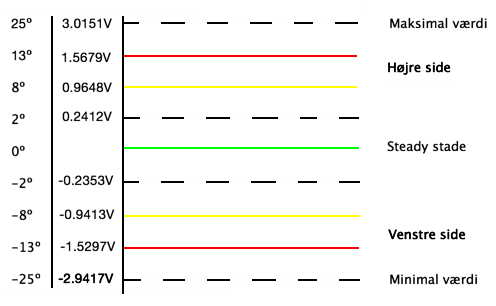
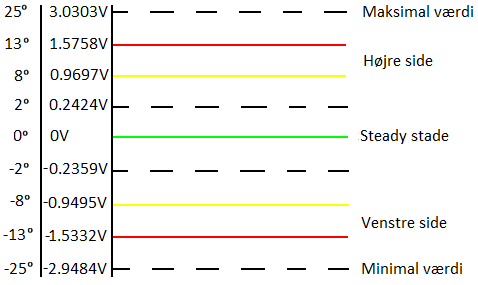
Blandet rettelser

diff --git a/rapportAfsnit/eProblemloesning/Design/Komparator_Feedback/Komparator.tex b/rapportAfsnit/eProblemloesning/Design/Komparator_Feedback/Komparator.tex
@@ -1,10 +1,10 @@
 % !TeX spellcheck = da_DK
-\subsection{Komparator}
+\subsection{Feedback}
 \subsubsection{Teori og design}
-Som nævnt i afsnit \ref{Komparatorafsnit} på side \pageref{Komparatorafsnit} anvendes en komparator til at sammenligne to inputspændinger. Der vil blive anvendt flere komparatorer og i dette tilfælde vil komparatorernes output blive tilkoblet en LED-diode, en modstand, den positive spændingsforsyning ($+V_{cc}$) og/eller en vibrator. I komparatorernes ikke-inverterende terminaler skal outputtet fra forrige blok tilsluttes. Inputtet til de inverterende terminaler skal fungere som referencespænding, hvilket anvendes til at forsyne med de beregnede tærskelværdier. Komparatorerne kan derfor have to forskellige outputs afhængig af inputspændingen. Hvis inputsignalet ligger udenfor de beregnede tærskelværdier, vil outputtet være $0V$, og dioderne og vibratoren vil ikke aktiveres. Er inputtet indenfor de beregnede tærskelværdier, vil outputtet svare til jord, da strømmen fra $+V_{cc}$ vil løbe igennem komparatorerne og derefter til jord. Derved opnås et spændingsfald over den positive (anode) og negative (katode) pol for LED-dioden og vibratoren på en værdi, der ligger over det minimale spændingsfald, der kræves for en aktivering. LED-dioderne og vibratorerne vil derved blive aktiveret og give feedback til patienten. \\
+Som nævnt i afsnit \ref{Komparatorafsnit} på side \pageref{Komparatorafsnit} anvendes en komparator til at sammenligne to inputspændinger. Der vil blive anvendt flere komparatorer og i dette tilfælde vil komparatorernes output blive tilkoblet en LED-diode, en modstand, den positive spændingsforsyning ($+V_{cc}$) og muligvis en vibrator. I komparatorernes ikke-inverterende terminaler skal outputtet fra forrige blok tilsluttes. Inputtet til de inverterende terminaler skal fungere som referencespænding, hvilket anvendes til at forsyne med de beregnede tærskelværdier. Komparatorerne kan derfor have to forskellige outputs afhængig af inputspændingen. Hvis inputsignalet ligger udenfor de beregnede tærskelværdier, vil outputtet være $0V$, og dioderne og vibratoren vil ikke aktiveres. Er inputtet indenfor de beregnede tærskelværdier, vil outputtet svare til jord, da strømmen fra $+V_{cc}$ vil løbe igennem komparatorerne og derefter til jord. Derved opnås et spændingsfald over den positive (anode) og negative (katode) pol for LED-dioden og vibratoren på en værdi, der ligger over det minimale spændingsfald, som der kræves for en aktivering. LED-dioderne og vibratorerne vil derved blive aktiveret og fungere som feedback til patienten. \\
 
 \noindent\textbf{Visuel komparator kredsløb} \\
-Til den visuelle del af komparatorkredsløbet anvendes LED-dioder. LED-diodernes katode tilkobles komparatorens output, imens anoden tilkobles $+V_{cc}$. Jævnfør kravspecifikationerne i afsnit \ref{KomparatorAfs} på side \pageref{KomparatorAfs} er der valgt fem forskellige stadier for aktivering af LED-dioderne. For denne aktivering vil der blive anvendt otte komparatorer, da det første stadie, indeholdende den grønne LED-diode, både har en positiv og negativ tærskelværdi og derfor kræver to komparatorer. Tærskelværdierne kan både implementeres som to spændingstræer eller som otte spændingsdelere og der er fordele og ulemper ved begge metoder. Der anvendes her otte spændingsdelere, hvor fire indgår i to vindues-komparatorer og fire almindelige komparatorer. Dette design vælges til fordel for to spændingstræer, da modstandene i et spændingstræ påvirker hinanden, hvilket kan ændre tærskelværdierne, hvis én af modstandene ikke fungerer ideelt. For at modvirke dette, anvendes en spændingsdeler for hver tærskelværdi, der fremgår af \figref{fig:komparator_visuel}. Konfigurationen indeholder en spændingsreference $+V_{ref}$ på $2.5$V og fire modstande (R$13$-R$17$) mellem LED-dioderne og $+V_{cc}$ for at beskytte LED-dioderne mod for høj strømstyrke og at batteriet ikke drænes. Der udarbejdes en vindues-konfigurationen, hvor LED-dioden D$3$) er placeret mellem ground-terminalen på den ene komparatorer og output-terminalen på en anden komparator, som kan ses på \figref{fig:komparator_visuel}, hvor komparatorerne er U$3$ og U$4$. 
+Til den visuelle del af komparatorkredsløbet anvendes LED-dioder. LED-diodernes katode tilkobles komparatorens output, imens anoden tilkobles $+V_{cc}$. Jævnfør kravspecifikationerne i afsnit \ref{KomparatorAfs} på side \pageref{KomparatorAfs} er der valgt fem forskellige stadier for aktivering af LED-dioderne. For denne aktivering vil der blive anvendt otte komparatorer, da det første stadie, indeholdende den grønne LED-diode, både har en positiv og negativ tærskelværdi og derfor kræver to komparatorer. Tærskelværdierne kan både implementeres som to spændingstræer eller som otte spændingsdelere, hvoraf der er fordele og ulemper ved begge metoder. I dette tilfælde anvendes otte spændingsdelere, hvor to indgår i en vindueskomparatorkonfiguration for den grønne diode, og de seks andre fungerer som almindelige komparatorer, der aktiveres over en bestemt tærskelværdi. Dette design vælges til fordel for to spændingstræer, da modstandene i et spændingstræ påvirker hinanden, hvilket kan ændre tærskelværdierne, hvis én af modstandene ikke fungerer reelt. For at modvirke dette, anvendes en spændingsdeler for hver tærskelværdi, der fremgår af \figref{fig:komparator_visuel}. {\color{red}Teksten her efter passer ikke med billedet - ret til, når simuleringen er færdig. Det samme gælder figurteksten.} Figurationen indeholder en spændingsreference $+V_{ref}$ på $2.5$V og fire modstande (R$13$-R$17$) mellem LED-dioderne og $+V_{cc}$ for at beskytte LED-dioderne mod for høj strømstyrke og at batteriet ikke drænes. Der udarbejdes en vindues-konfigurationen, hvor LED-dioden D$3$) er placeret mellem ground-terminalen på den ene komparatorer og output-terminalen på en anden komparator, som kan ses på \figref{fig:komparator_visuel}, hvor komparatorerne er U$3$ og U$4$. 
 \begin{figure}[H]
 	\centering
 	\includegraphics[scale=0.7]{figures/cProblemloesning/komparator_visuel1.PNG}
@@ -15,7 +15,7 @@ Til den visuelle del af komparatorkredsløbet anvendes LED-dioder. LED-diodernes
 %%%%%%%%%%%%%%%%%%%%%%%%%%%%%%%%%%%%%%%%%%%%%%%%%%%%%%%%%%%%%%%
 
 \noindent\textbf{Beregning af tærskelværdier og tilhørende R$1$-R$12$ modstande for aktivering af LED-dioder} \\
-Inputsignalet fra forrige blok, tilpasningsblokken, ligger mellem -$2.9417$V og $3.0151$V jævnfør afsnit \ref{KomparatorAfs} på side\pageref{KomparatorAfs}. Jævnfør systemets funktionelle krav afsnit \ref{FunkKrav} på side \pageref{FunkKrav} ønskes det, at de enkelte LED-dioder skal lyse ved bestemte kropshældninger, dvs. ved en bestemt tærskelværdi. 
+Inputsignalet fra forrige blok, tilpasningsblokken, ligger mellem -$2.9484$V og $3.0305$V jævnfør afsnit \ref{Forstaerker_faktor3_afs} på side\pageref{Forstaerker_faktor3_afs}. Jævnfør systemets funktionelle krav afsnit \ref{FunkKrav} på side \pageref{FunkKrav} ønskes det, at de enkelte LED-dioder skal lyse ved bestemte kropshældninger, dvs. ved en bestemt tærskelværdi. 
 Tærskelværdierne er udregnet til at være:
 \begin{figure}[H]
 	\centering
@@ -24,15 +24,13 @@ Tærskelværdierne er udregnet til at være:
 	\label{fig:taerskelvaerdier}
 \end{figure}
 
-Der vælges en  spændingsreference, som består af en regulator så den kan levere $2.5$V til komparatorkredsløbet jævnført \ref{Spaendingsref} på side \pageref{Spaendingsref}. Spændingsreferencen indgår som del af en spændingsdeler og benyttes for at holde en fast referencespænding, da spændingen ved anvendelse af et batteri vil falde som funktion af tid. For at muliggøre anvendelsen af spændingsforsyningen på $2.5$V til negative tærskelværdier benyttes en inverterende forstærker med et gain på $1$, der fremgår af figur \figref{fig:komparator_visuel}. Ved denne konfiguration vendes signalet uden at blive forstærket og kan på denne måde benyttes som referencespænding til negative inputspændinger.  
-Når referencespændingen er kendt kan modstandene i spændingsdeleren bestemmes. Da kredsløbet trækker strøm har modstandene (R$13$-R$17$) til formål at sikre, at spændingsforsyningen ikke drænes. Hvis modstanden er høj, vil strømmen til kredsløbet være lav, og batterierne i spændingsreferencen vil derved holde længere, men hvis modstanden er høj kan det påvirke LED-diodernes lysstyrke.
+Der vælges en  spændingsreference, som består af en regulator så den kan levere $2.5$V til komparatorkredsløbet jævnført \ref{subsec:Spaendingsref_Komparator} på side \pageref{subsec:Spaendingsref_Komparator}. Spændingsreferencen indgår som del af en spændingsdeler og benyttes for at holde en fast referencespænding, da spændingen ved anvendelse af et batteri vil falde som funktion af tid. For at muliggøre anvendelsen af spændingsforsyningen på $2.5$V til negative tærskelværdier benyttes en inverterende forstærker med et gain på $1$, der fremgår af figur \figref{fig:komparator_visuel}. Ved denne konfiguration vendes signalet uden at blive forstærket og kan på denne måde benyttes som referencespænding til negative inputspændinger. Når referencespændingen er kendt, kan modstandene i spændingsdeleren bestemmes. Da kredsløbet trækker strøm, har modstandene (R$13$-R$17$) til formål at sikre, at spændingsforsyningen ikke drænes. Hvis modstanden er høj, vil strømmen til kredsløbet være lav, og batterierne i spændingsreferencen vil derved holde længere, men hvis modstanden er høj kan det do også påvirke LED-diodernes lysstyrke.
 
-Der anvendes seks spændingsdelere, hvor to indgår som vindues-komparatorer og de resterende som almindelige komparatorer, hvilket fremgår af  \figref{fig:komparator_visuel}.
-For at opstille spændingsdelerne skal R$1$-R$12$ bestemmes så LED-dioderne lyser ved de ønskede tærskelværdier. For at modstandene kan bestemmes defineres R$1$ til en bestemt værdi, der her fastsættes til at være $10$K$\Omega$. Den samme værdi er gældende for R$2$-R$6$, eftersom der anvendes en spændingsdeler for hver tærskelværdi. Herefter kan R$7$-R$12$ udregnes vha. den generelle formel for en spændingsdeler jævnført \eqref{Spaendingsdeler}. Hvor følgende er kendt:
+For at opstille spændingsdelerne skal R$1$-R$12$ bestemmes, så LED-dioderne lyser ved de ønskede tærskelværdier. For at modstandene kan bestemmes defineres R$1$ til en bestemt værdi, der her fastsættes til at være $10$K$\Omega$. Den samme værdi er gældende for R$2$-R$6$, eftersom der anvendes en spændingsdeler for hver tærskelværdi. Herefter kan R$7$-R$12$ udregnes vha. den generelle formel for en spændingsdeler jævnført \eqref{eq:Spaendingsdeler}. Hvor følgende er kendt:
 \begin{itemize}
-\item $V_out$ = den ønskede tærskelværdi
-\item $V_in$ = spændingsreferencen
-\item R$1$-R$6$ = $10$K$\Omega$
+\item $V_out$ = Den ønskede tærskelværdi.
+\item $V_in$ = Spændingsreferencen.
+\item R$1$-R$6$ = $10$K$\Omega$.
 \end{itemize}
 
 Dette medfører at R$7$-R$12$ giver følgende resultater:\\
@@ -46,7 +44,7 @@ R$12$ = $15765\Omega$ \\
 %%%%%%%%%%%%%%%%%%%%%%%%%%%%%%%%%%%%%%%%%%%%%%%%%%%%%%%%
 
 \noindent\textbf{Beregning af R$13$-R$17$ modstande for aktivering af LED-dioder} \\
-Jænvfør kravspecifikationerne i afsnit \ref{KomparatorAfs} på side \pageref{KomparatorAfs} for komparatoren skal forsyningsspændingen være $5.5$V. De anvendte LED-dioder i systemet er: en grønne L-$53$LG $5$mm (D$3$), to røde L-$53$LI $5$mm (D$1$ og D$5$) og to gule L-$53$LY $5$mm (D$2$ og D$4$). Disse LED-dioder kræver en minimum spænding på $2$mA for at lyse, men omkring $20$mA for tydeligt lys, hvilket der er ønsket jævnført \ref{visuel_feedback_krav} på side \pageref{visuel_feedback_krav}.  Spændingsfaldet over LED-dioderne ligger maksimalt i intervallet $2.0$V til $2.2$ V (rød: $2.0$, gul: $2.1$ og grøn: $2.2$), men typisk mellem $1.7$V-$1.9$V. LED-dioderne skal derudover forsynes med $2$mA for at fungere, men kan forsynes med op til \fxnote{Tjek og 150mA er rigtigt}$150$mA, før de brændes af. LED-dioderne forsynes af en $5.5$V spændingsforsyning og tilkobles, som sagt, tilhørende modstande for bla. at undgå at LED-dioderne brænder af. Spændingsfaldet over dioderne samt den spænding LED-dioderne som minimum skal bruge for at lyse er kendte værdier, dvs. modstandene R$12$-R$17$ kan derfor findes vha. Ohms lov. Nedenstående udregning giver en værdi af modstandene, hvis spændingsforsyningen giver $5.5$V til kredsløbet og hvor der tages udgangspunkt i den minimale strøm for LED-dioderne:
+Jænvfør kravspecifikationerne i afsnit \ref{KomparatorAfs} på side \pageref{KomparatorAfs} for komparatoren skal forsyningsspændingen være $5.5$V. De anvendte LED-dioder i systemet er: en grønne L-$53$LG $5$mm (D$3$), to røde L-$53$LI $5$mm (D$1$ og D$5$) og to gule L-$53$LY $5$mm (D$2$ og D$4$). Disse LED-dioder kræver en minimum spænding på $2$mA for at lyse, men det vurderes, at der skal benyttes ca. $20$mA for tydeligt lys.  Spændingsfaldet over LED-dioderne ligger maksimalt i intervallet $2.0$V til $2.2$ V (rød: $2.0$, gul: $2.1$ og grøn: $2.2$), men typisk mellem $1.7$V-$1.9$V. LED-dioderne skal derudover forsynes med $2$mA for at fungere, men kan forsynes med op til \fxnote{Tjek og 150mA er rigtigt}$150$mA, før de brændes af. LED-dioderne forsynes af en $5.5$V spændingsforsyning og tilkobles, som sagt, tilhørende modstande for bla. at undgå at LED-dioderne brænder af. Spændingsfaldet over dioderne samt den spænding LED-dioderne som minimum skal bruge for at lyse er kendte værdier, dvs. modstandene R$12$-R$17$ kan derfor findes vha. Ohms lov. Nedenstående udregning giver en værdi af modstandene, hvis spændingsforsyningen giver $5.5$V til kredsløbet og hvor der tages udgangspunkt i den minimale strøm for LED-dioderne:
 
 \begin{equation}
 R = \dfrac{5.5V - 2.2V}{0.02A} = 165\Omega

diff --git a/rapportAfsnit/eProblemloesning/Design/Forstaerker/Forstaeker_faktor3.tex b/rapportAfsnit/eProblemloesning/Design/Forstaerker/Forstaeker_faktor3.tex
@@ -1,5 +1,5 @@
 % !TeX spellcheck = da_DK
-\subsection{Forstærker i tilpasningsblok}
+\subsection{Forstærker i tilpasningsblok}\label{Forstaerker_faktor3_afs}
 \subsubsection{Teori og design}
 I afsnit \ref{Subsec:Forstaerker}, side \pageref{Subsec:Forstaerker} er teorien samt designet af en forstærker forklaret. Da blokken tilpasning skal tilpasse det filtrerede signal til komparatoren, afgrænses måleintervallet til $\pm25^{\circ}$. Et range på $\pm90^{\circ}$ er unødvendigt ift. at vurdere hvorvidt patienten er faldet. Derfor ønskes det, at $V_{out}$ fra denne blok er $\pm3$V, når accelerometret måler $\pm25^{\circ}$. Der skal dermed ske en forstærkning med en faktor $3.6$, hvilket svarer til $11.1261$dB, som beskrevet i afsnit \ref{Tilpasningsblok} på side \pageref{Tilpasningsblok}. \\
 For at udregne modstandene er R$2$ blevet valgt til $10$K$\Omega$. Ud fra dette er R$1$ blevet bestemt ved følgende udregning:
@@ -24,7 +24,7 @@ Forstærkeren testes i fire simuleringer for at undersøge, om den opfylder de o
 		\hline
 		\multicolumn{1}{|c|}{\textit{Inputsignalet}} & \textit{\begin{tabular}[c]{@{}l@{}}For-\\stærkning\end{tabular}} & \textit{\begin{tabular}[c]{@{}l@{}}Forventet\\outputsignal\end{tabular}} & \multicolumn{1}{c|}{\textit{Outputsignalet}} & \textit{\begin{tabular}[c]{@{}l@{}}For-\\stærkning\end{tabular}}  & \multicolumn{1}{c|}{\textit{Afvigelse}} \\ \hline
 		$3.0148$V     & $3.6$   & \begin{tabular}[c]{@{}l@{}}Forventer mætning\\ $10.8533$V\end{tabular} & $3.9765$V  & $\times$ & $\times$     \\ \hline
-		$0.8418V$V    & $3.6$   & $3.0305$V                                                              & $3.0304$V  & $3.6$ & $0\%$     \\ \hline
+		$0.8418$V    & $3.6$   & $3.0305$V                                                              & $3.0304$V  & $3.6$ & $0\%$     \\ \hline
 %		$0$V          & 3   & $0$V                                                                   & $33.6527\mu $V        & $\approx 0\%$     \\ \hline
 	   -$0.8190$V     & $3.6$   & -$2.9484$V                                                             & -$2.9482$V  & $3.6$ & $0\%$     \\ \hline
 	   -$2.9420$V     & $3.6$   & \begin{tabular}[c]{@{}l@{}}Forventer mætning\\ -$10.5912$V\end{tabular}& -$3.97703$V  & $\times$ & $\times$     \\ \hline

diff --git a/rapportAfsnit/eProblemloesning/Kravspecifikation_Specifikke.tex b/rapportAfsnit/eProblemloesning/Kravspecifikation_Specifikke.tex
@@ -153,9 +153,9 @@ Den grønne LED-diode skal lyse, når accelerometret er placeret korrekt på pat
 	\item Komparatoren skal kunne modtage et inputsignal på $\pm3$V $+5\%$.
 	\item Komparatoren skal ved et bestemt spændingsniveauer aktivere en diode og vibrator:
 	\begin{itemize}
-		\item Grøn diode og ingen vibration: I intervallet indenfor $0.1808$V til -$0.1773$V. Svarende til $\pm2^{\circ}$.
-		\item Gul diode og vibration: Fra niveauet $0.9648$V og -$0.9413$V. Svarende til $\pm 8^{\circ}$ eller over.
-		\item Rød diode og vibration: Fra nivauet $1.5679$V og -$1.5297$V. Svarende til $\pm13^{\circ}$ eller over.
+		\item Grøn diode og ingen vibration: I intervallet indenfor $0.2424$V til -$0.2359$V. Svarende til $\pm2^{\circ}$.
+		\item Gul diode og vibration: Fra niveauet $0.9697$V og -$0.9495$V. Svarende til $\pm 8^{\circ}$ eller over.
+		\item Rød diode og vibration: Fra nivauet $1.5758$V og -$1.5332$V. Svarende til $\pm13^{\circ}$ eller over.
 		%\item Ingen feedback: Over $2.2602$V og under -$2.2168$V. 
 	\end{itemize}
 	\item LEDerne og vibratorerne skal aktiveres ved angivet tærskelværdier i komparatoren.
